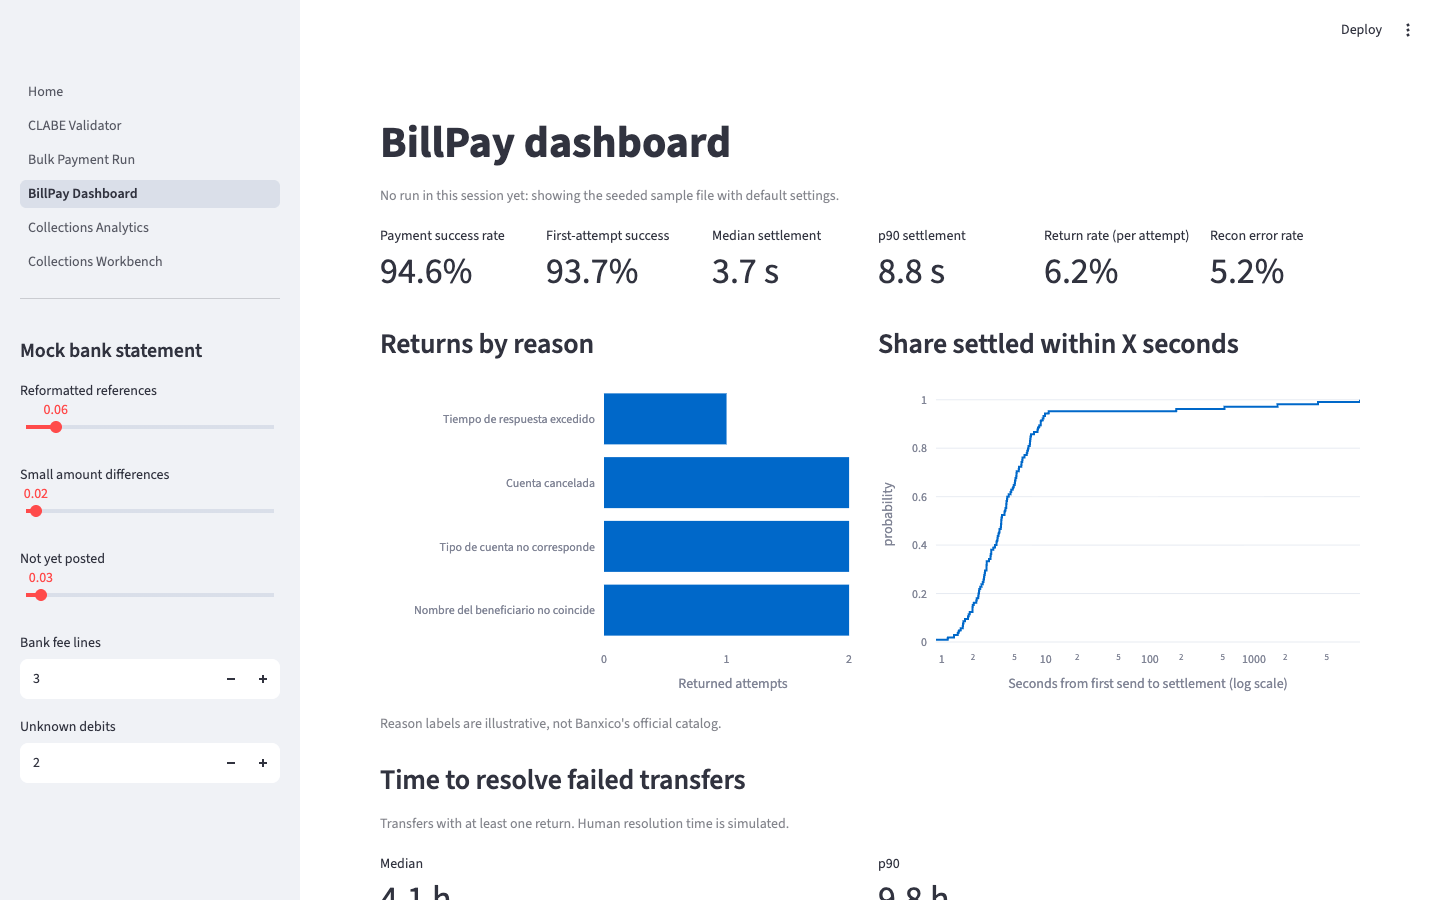
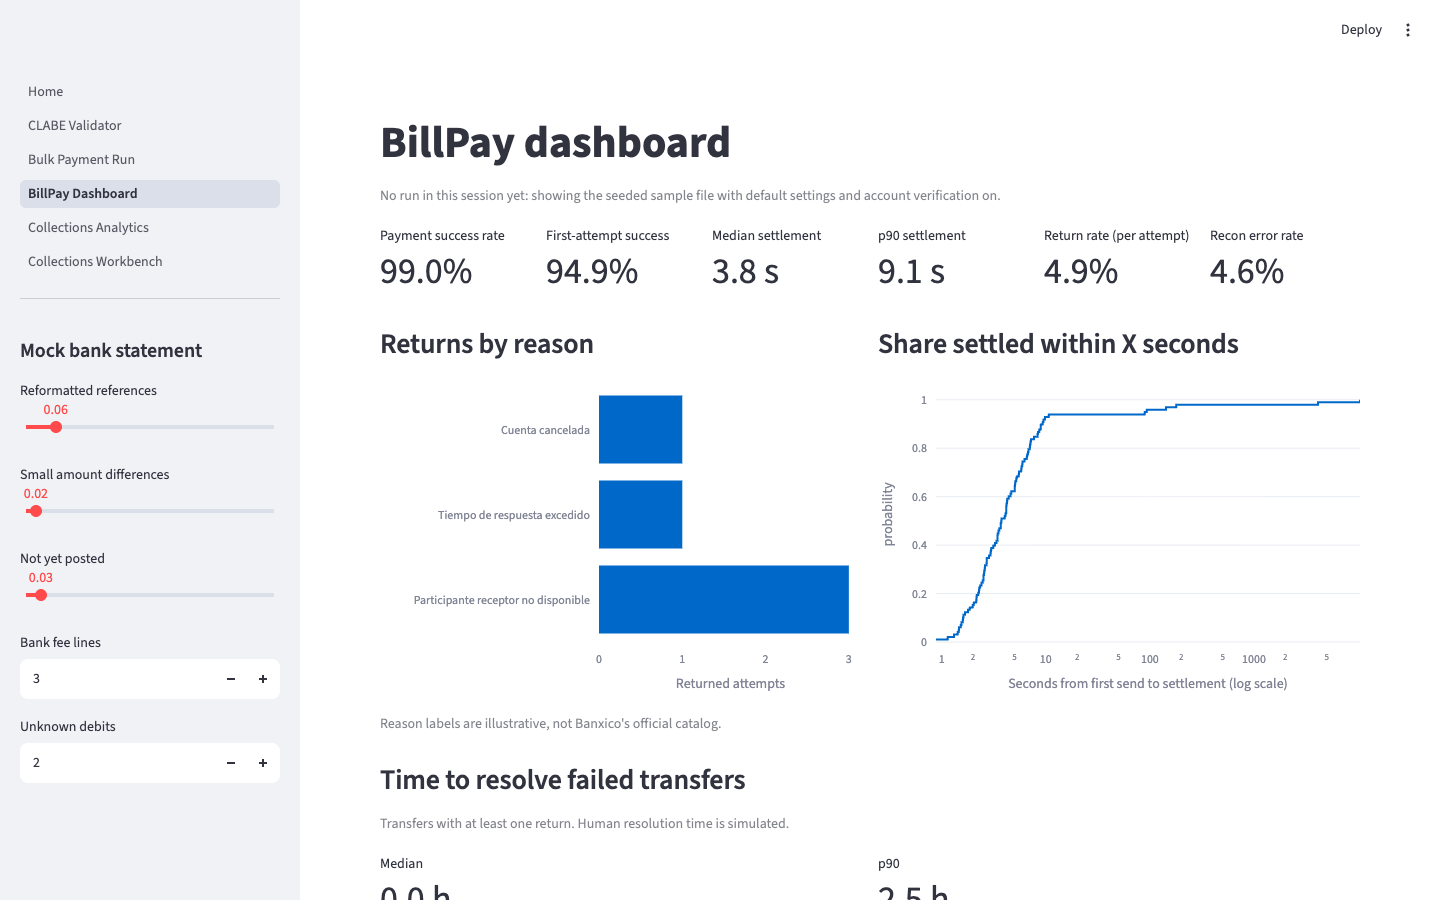
docs: document two-filter account validation (ADR 0005) and new demo numbers

diff --git a/README.md b/README.md
@@ -46,9 +46,12 @@ This lab turns both workflows into something you can click through, measure, and
 
 ```mermaid
 flowchart LR
-    A[📄 Payment CSV] --> B{Pre-flight}
+    A[📄 Payment CSV] --> B{Filter 1<br/>CLABE + pre-flight}
     B -- blocked --> X[❌ Fix before sending<br/>bad CLABE · duplicate · bad amount]
-    B -- ready --> C[🏦 SPEI simulator]
+    B -- new supplier account --> V{Filter 2<br/>MXN 0.01 penny drop<br/>+ ownership lookup}
+    B -- already verified --> C
+    V -- returned or wrong owner --> Y[🛑 Blocked: never paid<br/>ask supplier for a new CLABE]
+    V -- verified --> C[🏦 SPEI simulator]
     C -- settled --> R[🔁 Reconciliation]
     C -- returned, retryable --> D[⏳ Backoff & retry]
     D --> C
@@ -61,12 +64,20 @@ flowchart LR
 
 | Step | What you see | Why it matters |
 |---|---|---|
-| **CLABE validator** | 18 digits split into bank / plaza / account / check digit, verified with Banxico's 3-7-1 weights | The cheapest failure to prevent is the one caught before sending |
-| **Pre-flight report** | Every row marked *ready*, *warning* or *blocked*, with the reason | The analyst fixes 9 rows instead of chasing 9 returns |
+| **Filter 1 · CLABE validator** | 18 digits split into bank / plaza / account / check digit, verified with the 3-7-1 weights against a 99-institution catalog (from the [CLABE article](https://es.wikipedia.org/wiki/CLABE)) | The cheapest failure to prevent is the one caught before sending |
+| **Filter 1 · Pre-flight report** | Every row marked *ready*, *warning* or *blocked*, with the reason | The analyst fixes 9 rows instead of chasing 9 returns |
+| **Filter 2 · Penny drop** | New supplier accounts get MXN 0.01 over SPEI first. A return blocks the account; a settled cent's CEP must show the invoice RFC | A dead account fails on one cent, not on a $250,000 invoice, and **a CLABE that isn't the supplier's never gets paid** |
+| **Filter 2 · Ownership lookup** | A no-money cross-check that the CLABE belongs to that RFC, modelled on [Cobre's Account Verification API](https://docs.cobre.com/account-verification-1886570m0.md) (simulated by default, live client included) | A second, independent owner check; disagreement holds the payment for review |
 | **SPEI simulator** | Settled / returned (devolución) / pending, realistic latency, tunable odds | Lets you stress-test ops flows without a bank |
 | **Retry policy** | Infra failures retried with backoff; account failures routed to a human with a suggested fix | Fewer manual re-sends, **zero double payments by design** |
 | **Reconciliation** | Exact match → fuzzy match → unmatched *both ways* (sent-not-posted and posted-not-sent) | Month-end close becomes an exception list, not a spreadsheet hunt |
 | **Dashboard** | Success rate, median/p90 settlement, returns by reason, recon error rate, time to resolve | Ops gets the same numbers the CFO asks for |
+
+<div align="center">
+<img src="docs/img/account-verification.png" alt="Filter 2 results" width="85%">
+<br><sub>Filter 2 on the sample file: 8 accounts returned the penny and 4 belonged to a different RFC
+(compare <code>beneficiary_rfc</code> with <code>cep_rfc</code>). None of them got a real payment.</sub>
+</div>
 
 ### Module 2 · Collections Workbench
 
@@ -104,7 +115,7 @@ flowchart LR
 | Persona | Pain today | What the lab gives them |
 |---|---|---|
 | 🧾 **Finance ops analyst** | Chasing returns and re-sending by hand | Pre-flight before sending, auto-retry for infra failures, a short queue with the next step written out |
-| 🏦 **Treasury / AP lead** | Fear of double payments, slow month-end close | A retry policy that never re-sends pending transfers, reconciliation that surfaces only real exceptions |
+| 🏦 **Treasury / AP lead** | Fear of double payments, "we changed banks" fraud, slow month-end close | Accounts proven with a penny before the first payment, a retry policy that never re-sends pending transfers, reconciliation that surfaces only real exceptions |
 | 📞 **Collections agent** | Same script for everyone, unsure what's allowed | A prioritized worklist, the reason each account is risky, a compliant draft ready to send |
 | 📋 **Collections manager** | Strategy lives in someone's head | Roll rates and cures to steer by, treatment rules in one YAML file |
 | 📊 **CFO** | Can't see where cash gets stuck | Success, settlement time, recovery and vintage curves, with the SQL behind every number |
@@ -115,13 +126,26 @@ flowchart LR
 > These numbers come from synthetic data with fixed seeds. They show that the mechanics work,
 > not how any real bank or portfolio performs.
 
-| BillPay run (120-row file) | | Collections portfolio (400 SMEs) | |
-|---|---|---|---|
-| Rows blocked at pre-flight | **9** | Accounts with DPD > 0 | **23%** |
-| Payments settled | **94.6%** | 1-30 DPD that cure next month | **80%** |
-| Median / p90 settlement | **3.7 s / 8.8 s** | Recovery on 90+ exposure | **33%** |
-| Reconciliation error rate | **5.2%** | Next-month roll rate, low → high risk band | **15% → 36% → 83%** |
-| Median time to resolve a return | **4.1 h** (simulated) | Promises to pay kept | **79%** |
+**BillPay run, 120-row supplier file.** Filter 1 blocks 9 rows (4 short CLABEs, 3 duplicates,
+1 wrong check digit, 1 non-positive amount). Then, with and without filter 2:
+
+| | Filter 1 only | Filter 1 + filter 2 |
+|---|---|---|
+| Payments sent | 111 | **99** (12 accounts stopped before any real money moved) |
+| Stopped by a returned penny / wrong owner | – | **8 / 4** |
+| Sent payments that settled | 94.6% | **99.0%** |
+| Payments needing a human after sending | 6 | **1** |
+| Reconciliation error rate | 5.2% | **4.6%** |
+| Cost of verification | – | **MXN 1.03** in pennies, 99 lookups (median ~10 min) |
+| Second run of the same file | – | **0** new pennies: all 99 verified accounts reused |
+
+Median settlement is 3.7 s either way (p90 8.8 s without filter 2, 9.1 s with it).
+
+**Collections portfolio, 400 SMEs**
+
+| Accounts with DPD > 0 | 1-30 DPD that cure next month | Recovery on 90+ exposure | Next-month roll rate, low → high risk band | Promises to pay kept |
+|---|---|---|---|---|
+| **23%** | **80%** | **33%** | **15% → 36% → 83%** | **79%** |
 
 ---
 
@@ -183,6 +207,25 @@ seeded demo and can be reproduced with the default seeds.
 
 </td>
 </tr>
+<tr>
+<td valign="top">
+
+**🪙 Prove the account before paying it**<br>
+A valid CLABE can still be dead or someone else's. New supplier accounts get a MXN 0.01
+penny drop (does it settle? does the CEP show the invoice RFC?) plus an ownership lookup.
+Verified pairs are reused, so each account costs one cent once.
+→ [ADR 0005](docs/decisions/0005-two-filter-account-validation.md)
+
+</td>
+<td valign="top">
+
+**🧾 Cheap checks first, paid checks second**<br>
+Filter 1 is offline and free, so it runs on every row and keeps bad rows from ever
+costing a penny or a lookup. Filter 2 only runs on rows that pass it, and only once per
+new (CLABE, RFC) pair.
+
+</td>
+</tr>
 </table>
 
 ### Architecture
@@ -200,7 +243,7 @@ flowchart LR
 
     subgraph Core["🧠 core/ · pure Python, 99% tested"]
         direction TB
-        CL[clabe] --> PF[payments] --> SIM[spei_sim] --> RT[retry]
+        CL[clabe] --> PF[payments] --> AV[account_verification] --> SIM[spei_sim] --> RT[retry]
         SIM --> RC[recon]
         PG[portfolio] --> EW[early_warning] --> TR[treatment] --> NU[nudges] --> CP[compliance]
         PG --> PTP[ptp]
@@ -209,6 +252,7 @@ flowchart LR
     CFG[[⚙ config/*.yaml]] -.-> Core
     SQL[(🦆 DuckDB · sql/*.sql)]
     LLM{{🤖 Claude API · optional}} -.-> NU
+    COB{{🏦 Cobre lookup · optional}} -.-> AV
 
     UI --> Core
     Core --> SQL
@@ -246,6 +290,11 @@ Then open http://localhost:8501. Requires Python 3.11+.
 
 Try the SQL directly: `duckdb data/lab.duckdb < sql/roll_rates.sql`
 
+**Optional live Cobre lookup:** set `COBRE_USER_ID` and `COBRE_SECRET` (and `COBRE_BASE_URL`
+for a sandbox) to use Cobre's Account Verification API as the ownership lookup instead of the
+simulator. The client follows Cobre's public docs; it has not been run against the live API
+from this repo. The penny drop itself always runs on the SPEI simulator.
+
 **Optional Claude drafting:** copy `.env.example` to `.env` (or export the variables) and set
 `ANTHROPIC_API_KEY`. Drafts then use `claude-opus-5-5` (override with `ANTHROPIC_MODEL`) with
 the API's server-side refusal fallback enabled. Without a key, deterministic Spanish
@@ -263,7 +312,7 @@ templates are used, and LLM drafts go through the same compliance checks.
 | [One-pager · Collections](docs/one-pager-collections.md) | Same structure for the collections workbench |
 | [Experiment design](docs/experiments.md) | A/B test for the nudge: unit, primary metric, MDE with the sample-size math, stop rules |
 | [Compliance notes](docs/compliance-notes.md) | The reasoning behind each guardrail and what pattern checks can't catch |
-| [Decisions (ADRs)](docs/decisions/) | DuckDB · retry policy · rules + LLM · synthetic data |
+| [Decisions (ADRs)](docs/decisions/) | DuckDB · retry policy · rules + LLM · synthetic data · two-filter account validation |
 | [Roadmap](docs/roadmap.md) | The backlog, also tracked as GitHub Issues |
 
 <details>
@@ -293,11 +342,11 @@ templates are used, and LLM drafts go through the same compliance checks.
 
 ```
 Home.py, pages/        Streamlit UI (5 pages)
-core/                  Domain logic: clabe, payments, spei_sim, retry, recon, portfolio,
-                       early_warning, treatment, nudges, compliance, ptp
+core/                  Domain logic: clabe, payments, account_verification, spei_sim, retry,
+                       recon, portfolio, early_warning, treatment, nudges, compliance, ptp
 sql/                   Every metric as a plain DuckDB query
 config/                Business rules in YAML
-data/                  Public bank catalog + seeded sample payment file
+data/                  Bank catalog (from Wikipedia) + seeded sample payment file and bank registry
 docs/                  One-pagers, ADRs, experiment design, compliance notes, roadmap
 tests/                 Unit tests for core/ + smoke tests for every page
 ```
@@ -321,6 +370,12 @@ were caught that way and are documented in the PR history.
   "Demo Finanzas"); the only real names are public bank names in `data/banks.csv`, a subset
   to verify against Banxico.
 - **SPEI return reasons are illustrative labels**, not Banxico's official catalog or codes.
+- **The bank catalog comes from Wikipedia's CLABE article** and lags real changes: it has no
+  entry for some current participants, and its own worked example uses a retired code (032).
+  Verify against Banxico's participant list before production use.
+- **Filter 2 is simulated**: the penny drop runs on the SPEI simulator against a synthetic
+  bank registry, and the CEP is synthetic. The Cobre lookup client is untested against the
+  live API.
 - Settlement latency, human resolution time and the bank statement are simulated. The
   portfolio has no interest or fees, and balances freeze at 90+ DPD.
 - **Compliance rules are a high-level reading of CONDUSEF's collection rules**, implemented

diff --git a/docs/decisions/0005-two-filter-account-validation.md b/docs/decisions/0005-two-filter-account-validation.md
@@ -1,0 +1,44 @@
+# ADR 0005 · Two filters before paying a new supplier account
+
+**Status:** accepted
+
+## Context
+A CLABE can be perfectly valid (18 digits, correct check digit, known bank) and still be
+useless or dangerous: the account may not exist, may be blocked or cancelled, or may belong
+to someone other than the supplier. The last case is the "we changed banks, pay this new
+CLABE" fraud pattern. Finding out from a returned or misdirected real payment is the most
+expensive way to learn it.
+
+## Decision
+**Filter 1 (offline, free, every row):** CLABE structure, 3-7-1 check digit and bank code
+against the catalog from the Spanish Wikipedia CLABE article, plus the other pre-flight
+rules. Anything that fails never reaches filter 2.
+
+**Filter 2 (once per new CLABE + RFC pair):**
+1. **Penny drop.** Send MXN 0.01 over SPEI. A return blocks the account with its reason. A
+   settled cent comes with a CEP; its beneficiary RFC must equal the RFC on the supplier's
+   invoice, otherwise the account is blocked as a wrong owner.
+2. **Ownership lookup.** Ask the provider whether the CLABE belongs to that RFC, without
+   moving money (Cobre Account Verification, model `mex_acc_ownership_1`). It is a
+   cross-check: if it says `unmatched` while the penny matched, the payment is held for
+   review; if it is inconclusive (`unresolved`, `failed`, provider down), the penny decides.
+
+Verified pairs are reused for 180 days; blocked pairs stay blocked until the supplier
+record changes. Only verified payments are sent. In the simulator, verified accounts can no
+longer be returned as nonexistent, name mismatch or account-type mismatch.
+
+## Why the penny drop is primary
+It is the only check that proves money actually lands, and the CEP is Banxico's own record
+of who received it. The lookup is cheap and fast to add but answers a narrower question,
+and Cobre's docs describe it as asynchronous with business-hour response windows and a
+12-hour wait before retrying a check.
+
+## Consequences
+- Each new supplier account costs one cent and a few seconds to minutes of latency before
+  its first payment. Paying on the same day still works; the very first payment just waits
+  for the cent.
+- A real penny drop needs a funded SPEI account and CEP retrieval by tracking key; here it
+  runs on the simulator. The Cobre lookup client is written from public docs and is not
+  exercised against the live API in this repo.
+- Wikipedia's bank table lags real participant changes. Before production, the catalog
+  should come from Banxico's participant list (or the payment provider's catalog).

diff --git a/docs/one-pager-billpay.md b/docs/one-pager-billpay.md
@@ -19,6 +19,9 @@ risk of paying twice.
    account problems never do and should go straight to a human with a suggested next step.
 3. Exact reference + amount matching handles most of reconciliation; a small fuzzy layer
    handles reformatted references, and what remains is the real exception list.
+4. Proving a new supplier account with a MXN 0.01 penny drop (and an ownership lookup)
+   before its first payment removes most account-problem returns and stops payments to a
+   CLABE that is not the supplier's, for one cent per account.
 
 ## Metrics
 - **North star:** share of payments settled with zero human touch (pre-flight → settled →
@@ -26,7 +29,8 @@ risk of paying twice.
 - **Supporting:** payment success rate, first-attempt success, median and p90 settlement
   time, return rate by reason, reconciliation error rate, time to resolve failed transfers.
 - **Guardrails:** duplicate payments (target 0), payments re-sent while pending (target 0),
-  share of blocked rows that were actually valid (false-positive pre-flight blocks).
+  share of blocked rows that were actually valid (false-positive pre-flight blocks),
+  payments to an unverified account (target 0), first payments delayed by verification.
 
 ## First 30 / 60 / 90 days
 - **30:** instrument the funnel (uploaded → blocked → sent → settled → reconciled). Baseline
@@ -34,8 +38,8 @@ risk of paying twice.
 - **60:** ship pre-flight + retry policy to a pilot cohort; measure first-attempt success and
   the needs-human queue size vs. baseline; tune which reasons are retryable from real data.
 - **90:** auto-reconciliation live; target a drop in month-end close time and in manual
-  matches; decide whether supplier-account verification (pre-validating CLABE ownership)
-  is the next bet based on the share of NONEXISTENT/NAME_MISMATCH returns.
+  matches. Turn on account verification (penny drop + ownership lookup) for new suppliers
+  and compare account-problem returns and wrong-account incidents against the baseline.
 
 ## Risks
 - **SAT / CFDI:** supplier payments should tie back to CFDI invoices; payments on PPD

diff --git a/docs/roadmap.md b/docs/roadmap.md
@@ -5,7 +5,8 @@ These become GitHub Issues when the repo is published (`scripts/create_issues.sh
 | Title | Labels |
 |---|---|
 | Replace illustrative SPEI return reasons with Banxico's official catalog | billpay, compliance |
-| Supplier account verification before first payment (CLABE ownership) | billpay, enhancement |
+| Real penny drop through the payment provider (payout + CEP retrieval by tracking key) | billpay, enhancement |
+| Source the bank catalog from Banxico's participant list instead of Wikipedia | billpay, compliance |
 | Carry CFDI UUID through payments and reconciliation | billpay, enhancement |
 | Persist runs in a transactional store (Postgres) instead of session state | infra |
 | Maker-checker approval for bulk files above a threshold | billpay, enhancement |
